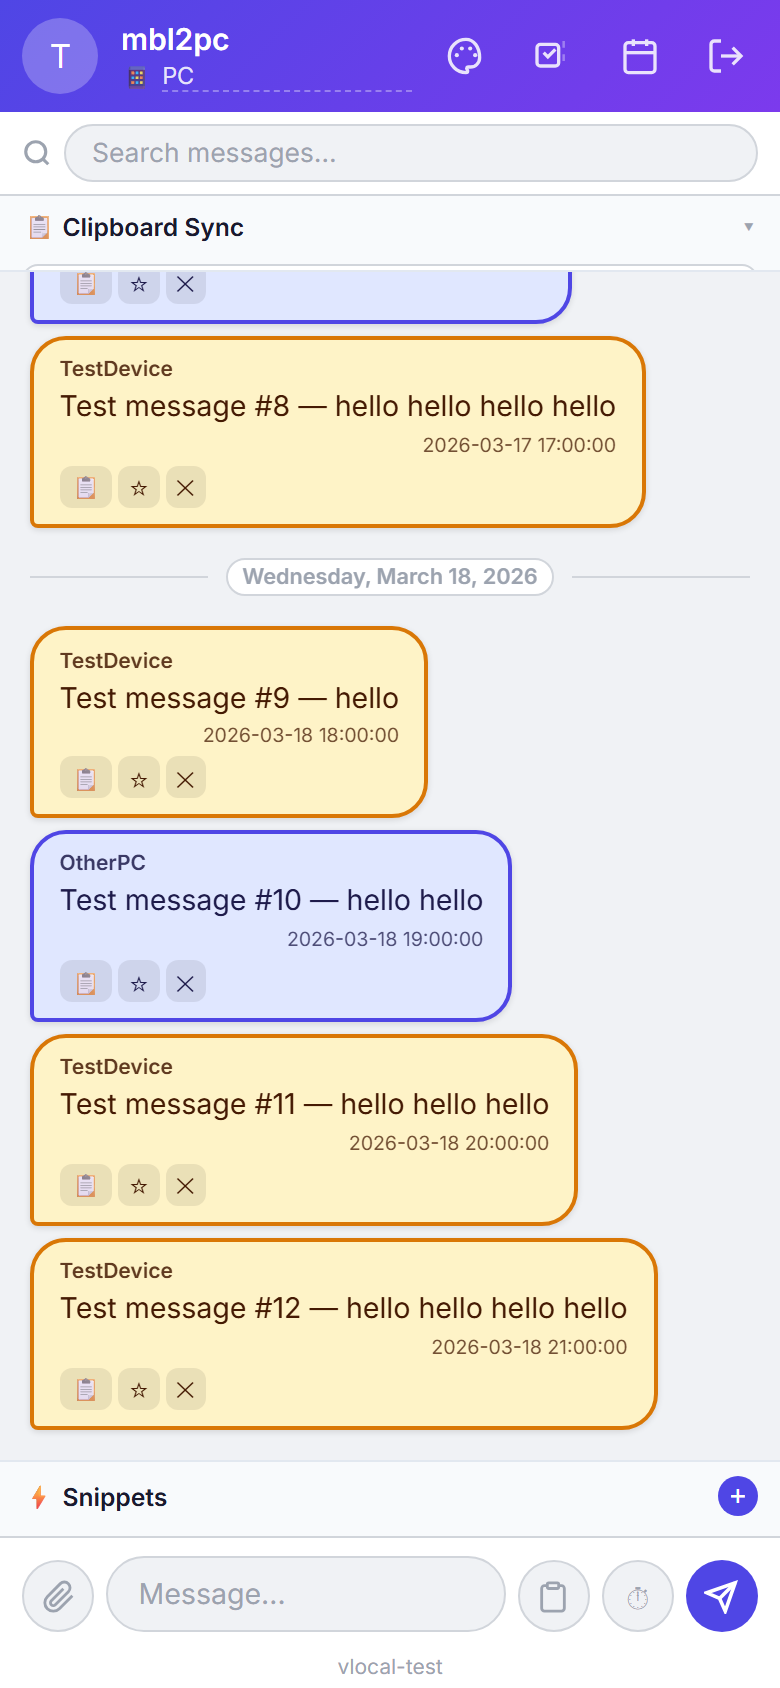
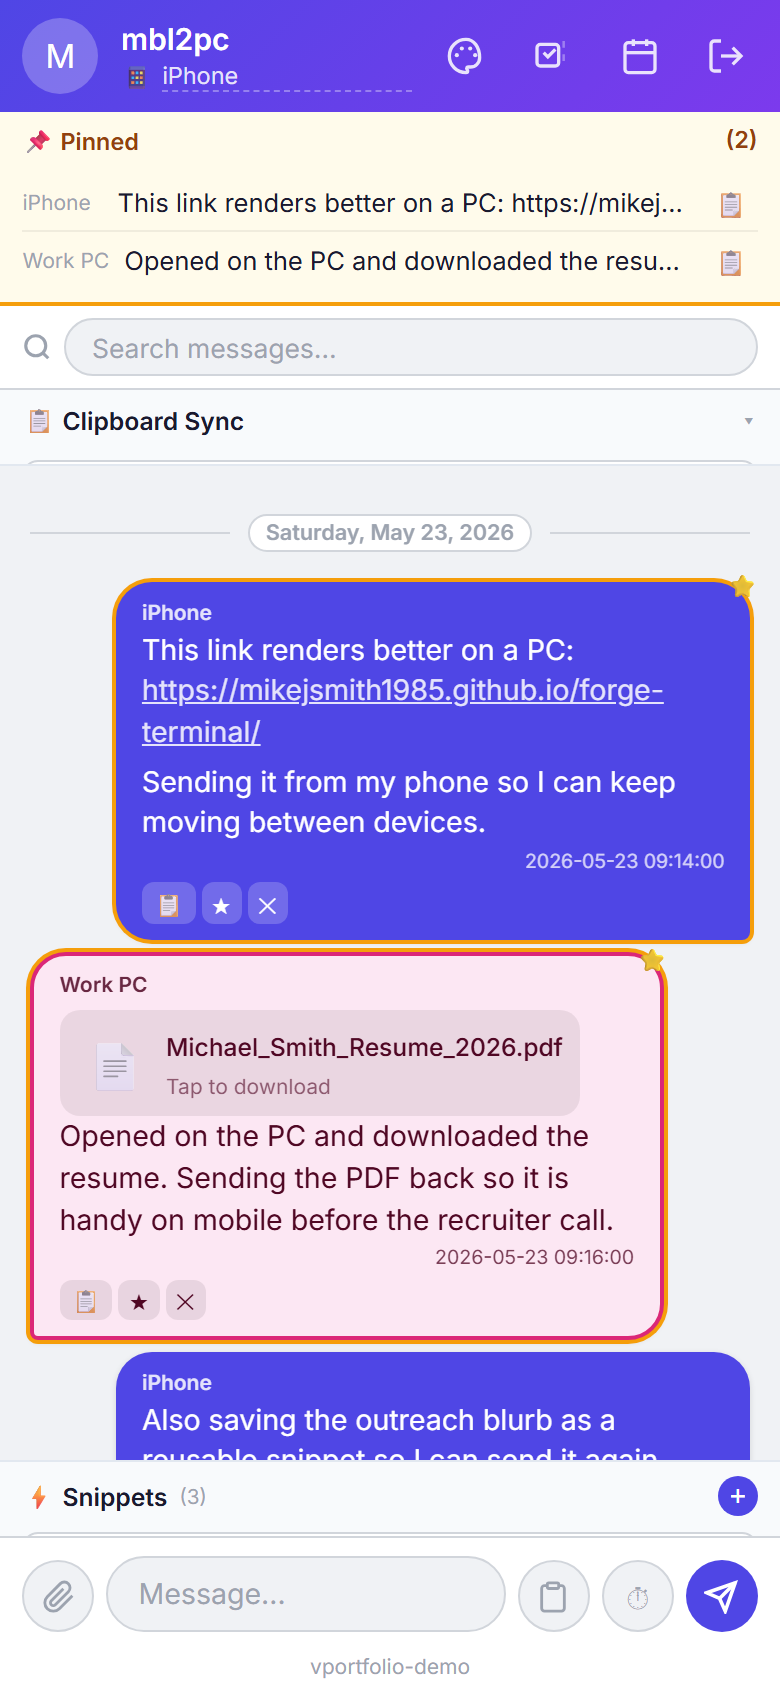
feat: improve MBL2PC portfolio file handoff story
Update the MBL2PC portfolio screenshots and copy to show a phone-to-PC link handoff, a resume PDF returned to mobile, and reusable outreach snippets instead of generic message examples.

diff --git a/CHANGELOG.md b/CHANGELOG.md
@@ -11,6 +11,7 @@ and this project adheres to [Semantic Versioning](https://semver.org/spec/v2.0.0
 - **Shareable portfolio microsite scaffold for employer-facing product storytelling** — Added `web/portfolio/` as a recruiter-friendly showcase for Forge Terminal, NodeToolbox, EZTest, MBL2PC, and QuiKeys. The first pass is data-driven, includes three curated "wow" moments per application, generates storyboard preview assets for safe demo states, and reuses existing Forge Terminal screenshots where available so the portfolio can evolve into a repeatable capture workflow instead of a one-off deck. The portfolio data is now emitted as a self-contained runtime module so the site can be published directly to GitHub Pages without depending on repo-internal script paths.
 - **Portfolio language now targets employers directly and labels evidence sources clearly** — The live portfolio no longer explains itself as an artifact being shown to the candidate. It now presents each product as a direct case study, distinguishes live product captures from code-derived renderings, and hides internal capture-plan jargon that did not belong in employer-facing copy.
 - **Portfolio visuals now use PNG product screens instead of generated SVG storyboard art** — The portfolio asset pipeline now removes the generic SVG fallback, copies real MBL2PC UI captures, renders source-derived PNG replicas for the remaining app states, and validates that every card points to a concrete PNG with visible safe sample data.
+- **MBL2PC portfolio story now highlights file handoff and snippets** — Reworked the MBL2PC section so the screenshots and copy show a phone sending a PC-friendly portfolio link, the PC returning a resume PDF, and saved outreach snippets instead of generic text messages.
 
 ### Fixed
 - **Terminal sessions now survive Windows sleep instead of reopening as fresh shells** — Forge previously treated `PBT_APMSUSPEND` as a signal to close every live and detached PTY before the machine slept. After resume, reconnect created a new prompt because the original shell had already been destroyed. Forge now records the suspend event without tearing down PTYs, and any disconnect that happens shortly after wake receives an extended reconnect grace window so the original shell can be reattached instead of replaced.
